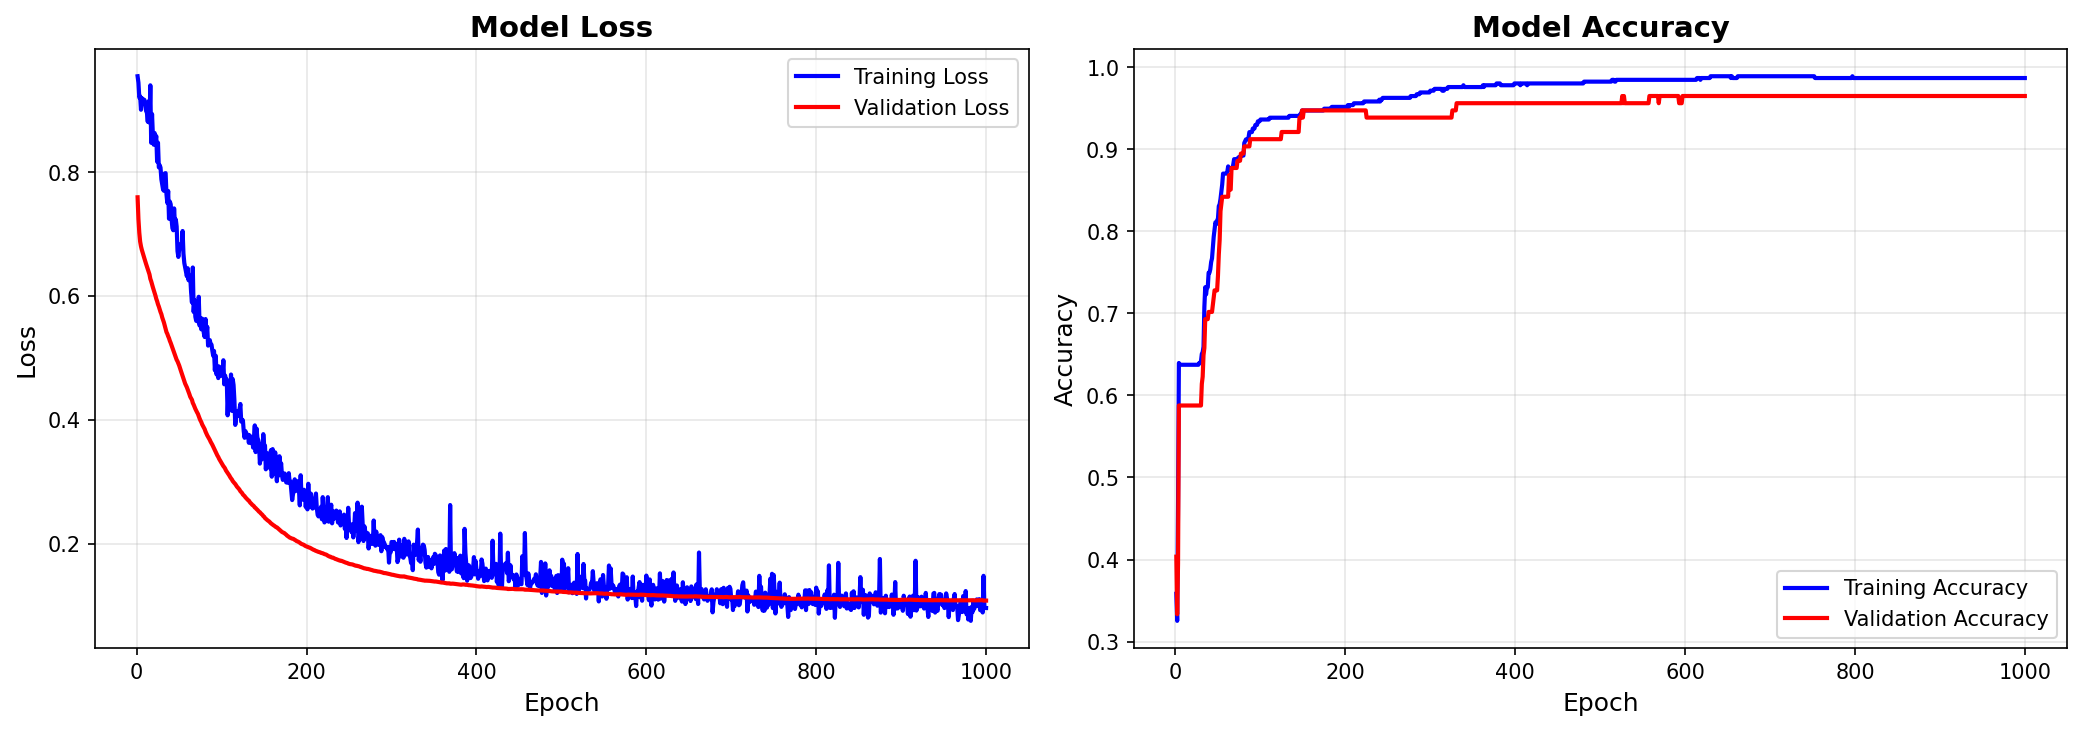
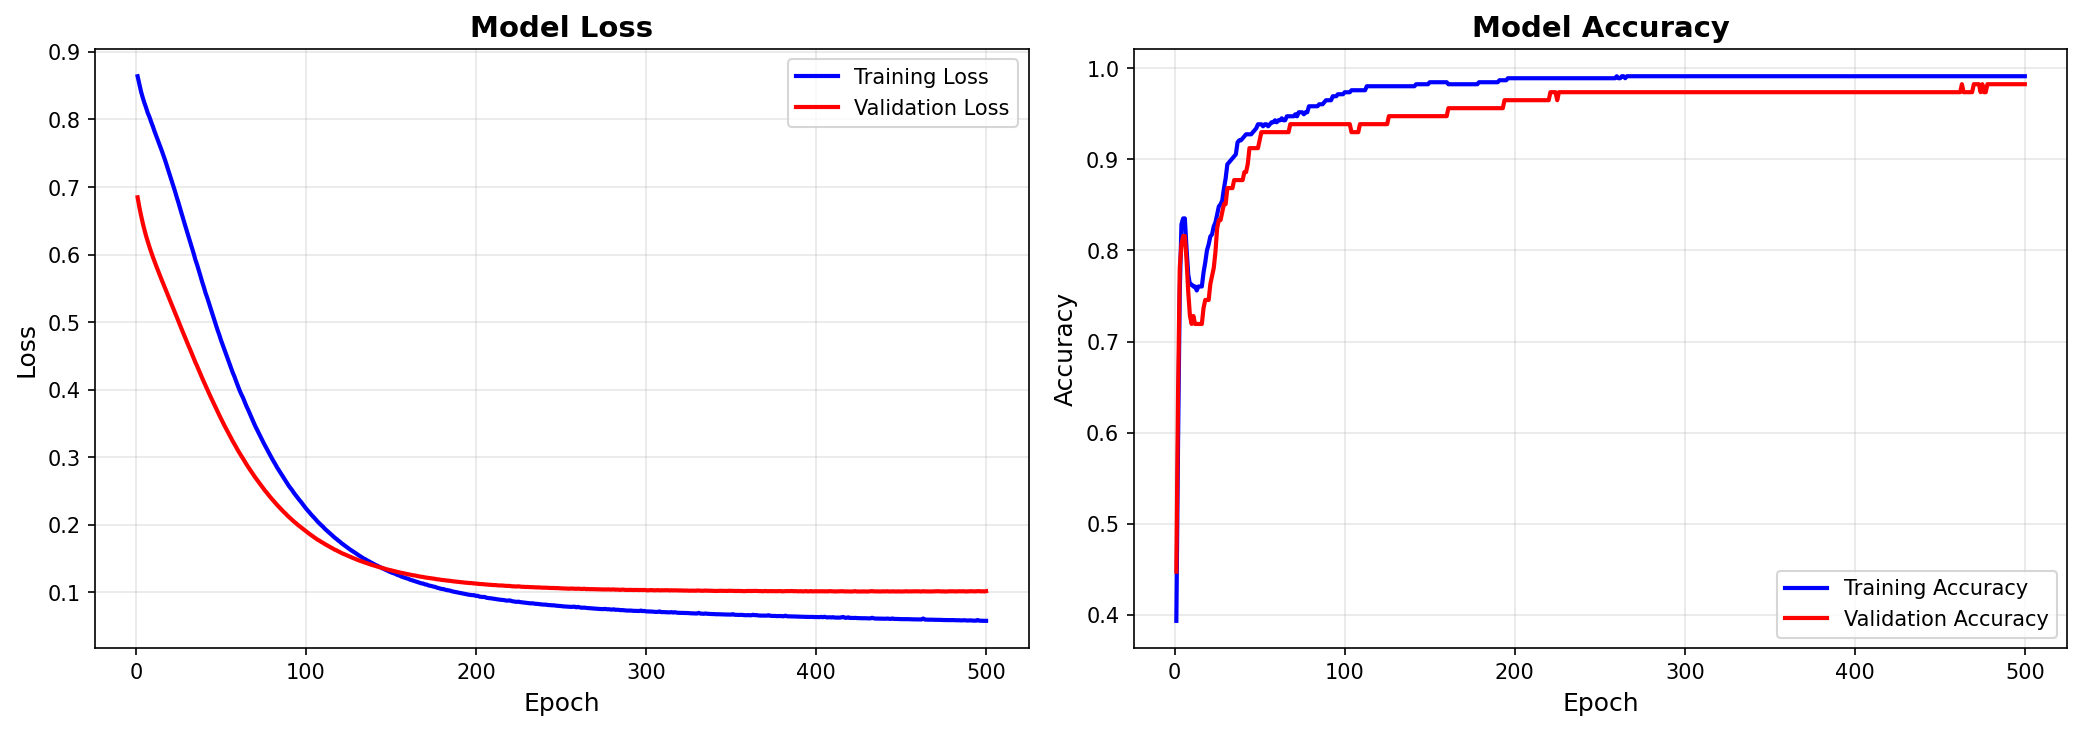
add adam optimizer

diff --git a/src/training/DenseLayer.py b/src/training/DenseLayer.py
@@ -34,6 +34,13 @@ class DenseLayer:
         # Gradients
         self.dW = None
         self.db = None
+        
+        # Adam optimizer state
+        self.adam_m_w = None  # First moment for weights
+        self.adam_v_w = None  # Second moment for weights
+        self.adam_m_b = None  # First moment for biases
+        self.adam_v_b = None  # Second moment for biases
+        self.adam_t = 0       # Time step for Adam
     
     def _initialize_weights(self, method):
         """Initialize weights using specified method."""
@@ -104,13 +111,19 @@ class DenseLayer:
         else:
             return z  # Linear activation
     
-    def backward(self, dA, learning_rate):
+    def backward(self, dA, learning_rate, optimizer='SGD', weight_decay=0.0, 
+                 beta1=0.9, beta2=0.999, epsilon=1e-8):
         """
-        Backward pass through the layer.
+        Backward pass through the layer with optimizer support.
         
         Args:
             dA: Gradient of loss with respect to output of this layer
             learning_rate: Learning rate for weight updates
+            optimizer: Optimizer name ('SGD' or 'Adam')
+            weight_decay: L2 regularization coefficient
+            beta1: Adam optimizer first moment decay rate
+            beta2: Adam optimizer second moment decay rate
+            epsilon: Small constant for numerical stability
             
         Returns:
             Gradient with respect to input (for previous layer)
@@ -127,14 +140,69 @@ class DenseLayer:
         self.dW = np.dot(self.input.T, dZ) / batch_size
         self.db = np.sum(dZ, axis=0, keepdims=True) / batch_size
         
+        # Apply weight decay (L2 regularization) to weight gradients
+        if weight_decay > 0:
+            self.dW += weight_decay * self.weights
+        
         # Gradient for previous layer
         dA_prev = np.dot(dZ, self.weights.T)
         
-        # Update weights and biases
-        self.weights -= learning_rate * self.dW
-        self.biases -= learning_rate * self.db
+        # Update weights and biases based on optimizer
+        if optimizer.upper() == 'ADAM':
+            self._update_adam(learning_rate, beta1, beta2, epsilon)
+        else:  # Default to SGD
+            self._update_sgd(learning_rate)
         
         return dA_prev
+    
+    def _update_sgd(self, learning_rate):
+        """Update weights using SGD (Stochastic Gradient Descent)."""
+        self.weights -= learning_rate * self.dW
+        self.biases -= learning_rate * self.db
+    
+    def _update_adam(self, learning_rate, beta1=0.9, beta2=0.999, epsilon=1e-8):
+        """
+        Update weights using Adam optimizer.
+        
+        Adam (Adaptive Moment Estimation) combines:
+        - Momentum (first moment)
+        - RMSprop (second moment)
+        
+        Args:
+            learning_rate: Learning rate
+            beta1: Exponential decay rate for first moment
+            beta2: Exponential decay rate for second moment
+            epsilon: Small constant for numerical stability
+        """
+        # Initialize Adam state on first use
+        if self.adam_m_w is None:
+            self.adam_m_w = np.zeros_like(self.weights)
+            self.adam_v_w = np.zeros_like(self.weights)
+            self.adam_m_b = np.zeros_like(self.biases)
+            self.adam_v_b = np.zeros_like(self.biases)
+        
+        # Increment time step
+        self.adam_t += 1
+        
+        # Update biased first moment estimate (momentum)
+        self.adam_m_w = beta1 * self.adam_m_w + (1 - beta1) * self.dW
+        self.adam_m_b = beta1 * self.adam_m_b + (1 - beta1) * self.db
+        
+        # Update biased second raw moment estimate (RMSprop)
+        self.adam_v_w = beta2 * self.adam_v_w + (1 - beta2) * (self.dW ** 2)
+        self.adam_v_b = beta2 * self.adam_v_b + (1 - beta2) * (self.db ** 2)
+        
+        # Compute bias-corrected first moment estimate
+        m_w_corrected = self.adam_m_w / (1 - beta1 ** self.adam_t)
+        m_b_corrected = self.adam_m_b / (1 - beta1 ** self.adam_t)
+        
+        # Compute bias-corrected second raw moment estimate
+        v_w_corrected = self.adam_v_w / (1 - beta2 ** self.adam_t)
+        v_b_corrected = self.adam_v_b / (1 - beta2 ** self.adam_t)
+        
+        # Update weights and biases
+        self.weights -= learning_rate * m_w_corrected / (np.sqrt(v_w_corrected) + epsilon)
+        self.biases -= learning_rate * m_b_corrected / (np.sqrt(v_b_corrected) + epsilon)
     
     # Gradient activation
     def _relu_gradient(self, dA):

diff --git a/src/training/NeuralNetwork.py b/src/training/NeuralNetwork.py
@@ -89,7 +89,12 @@ class NeuralNetwork:
         
         # Backpropagate through layers in reverse
         for layer in reversed(self.layers):
-            dA = layer.backward(dA, self.config.learning_rate)
+            dA = layer.backward(
+                dA, 
+                learning_rate=self.config.learning_rate,
+                optimizer=self.config.optimizer_name,
+                weight_decay=self.config.weight_decay
+            )
 
     def binary_cross_entropy(self, y_true, y_pred):
         """

diff --git a/src/training/train.py b/src/training/train.py
@@ -92,8 +92,10 @@ def train_model(config, dataset_path):
     
     # Training loop
     print(f"\nStarting training for {config.epochs} epochs...")
+    print(f"   Optimizer: {config.optimizer_name}")
     print(f"   Batch size: {config.batch_size}")
-    print(f"   Learning rate: {config.learning_rate}\n")
+    print(f"   Learning rate: {config.learning_rate}")
+    print(f"   Weight decay: {config.weight_decay}\n")
     
     for epoch in range(config.epochs):
         # Training phase

diff --git a/src/training/ModelConfig.py b/src/training/ModelConfig.py
@@ -54,7 +54,7 @@ class ModelConfig:
         # 4. Optimizer Settings
         optim = train_params.get('optimizer', {})
         self.optimizer_name: str = optim.get('name', 'SGD')
-        self.learning_rate: float = float(optim.get('learning_rate', 0.01))
+        self.learning_rate: float = float(optim.get('learning_rate', 0.001))
         self.weight_decay: float = float(optim.get('weight_decay', 0.0))
         
         # 5. Loss Function Settings
